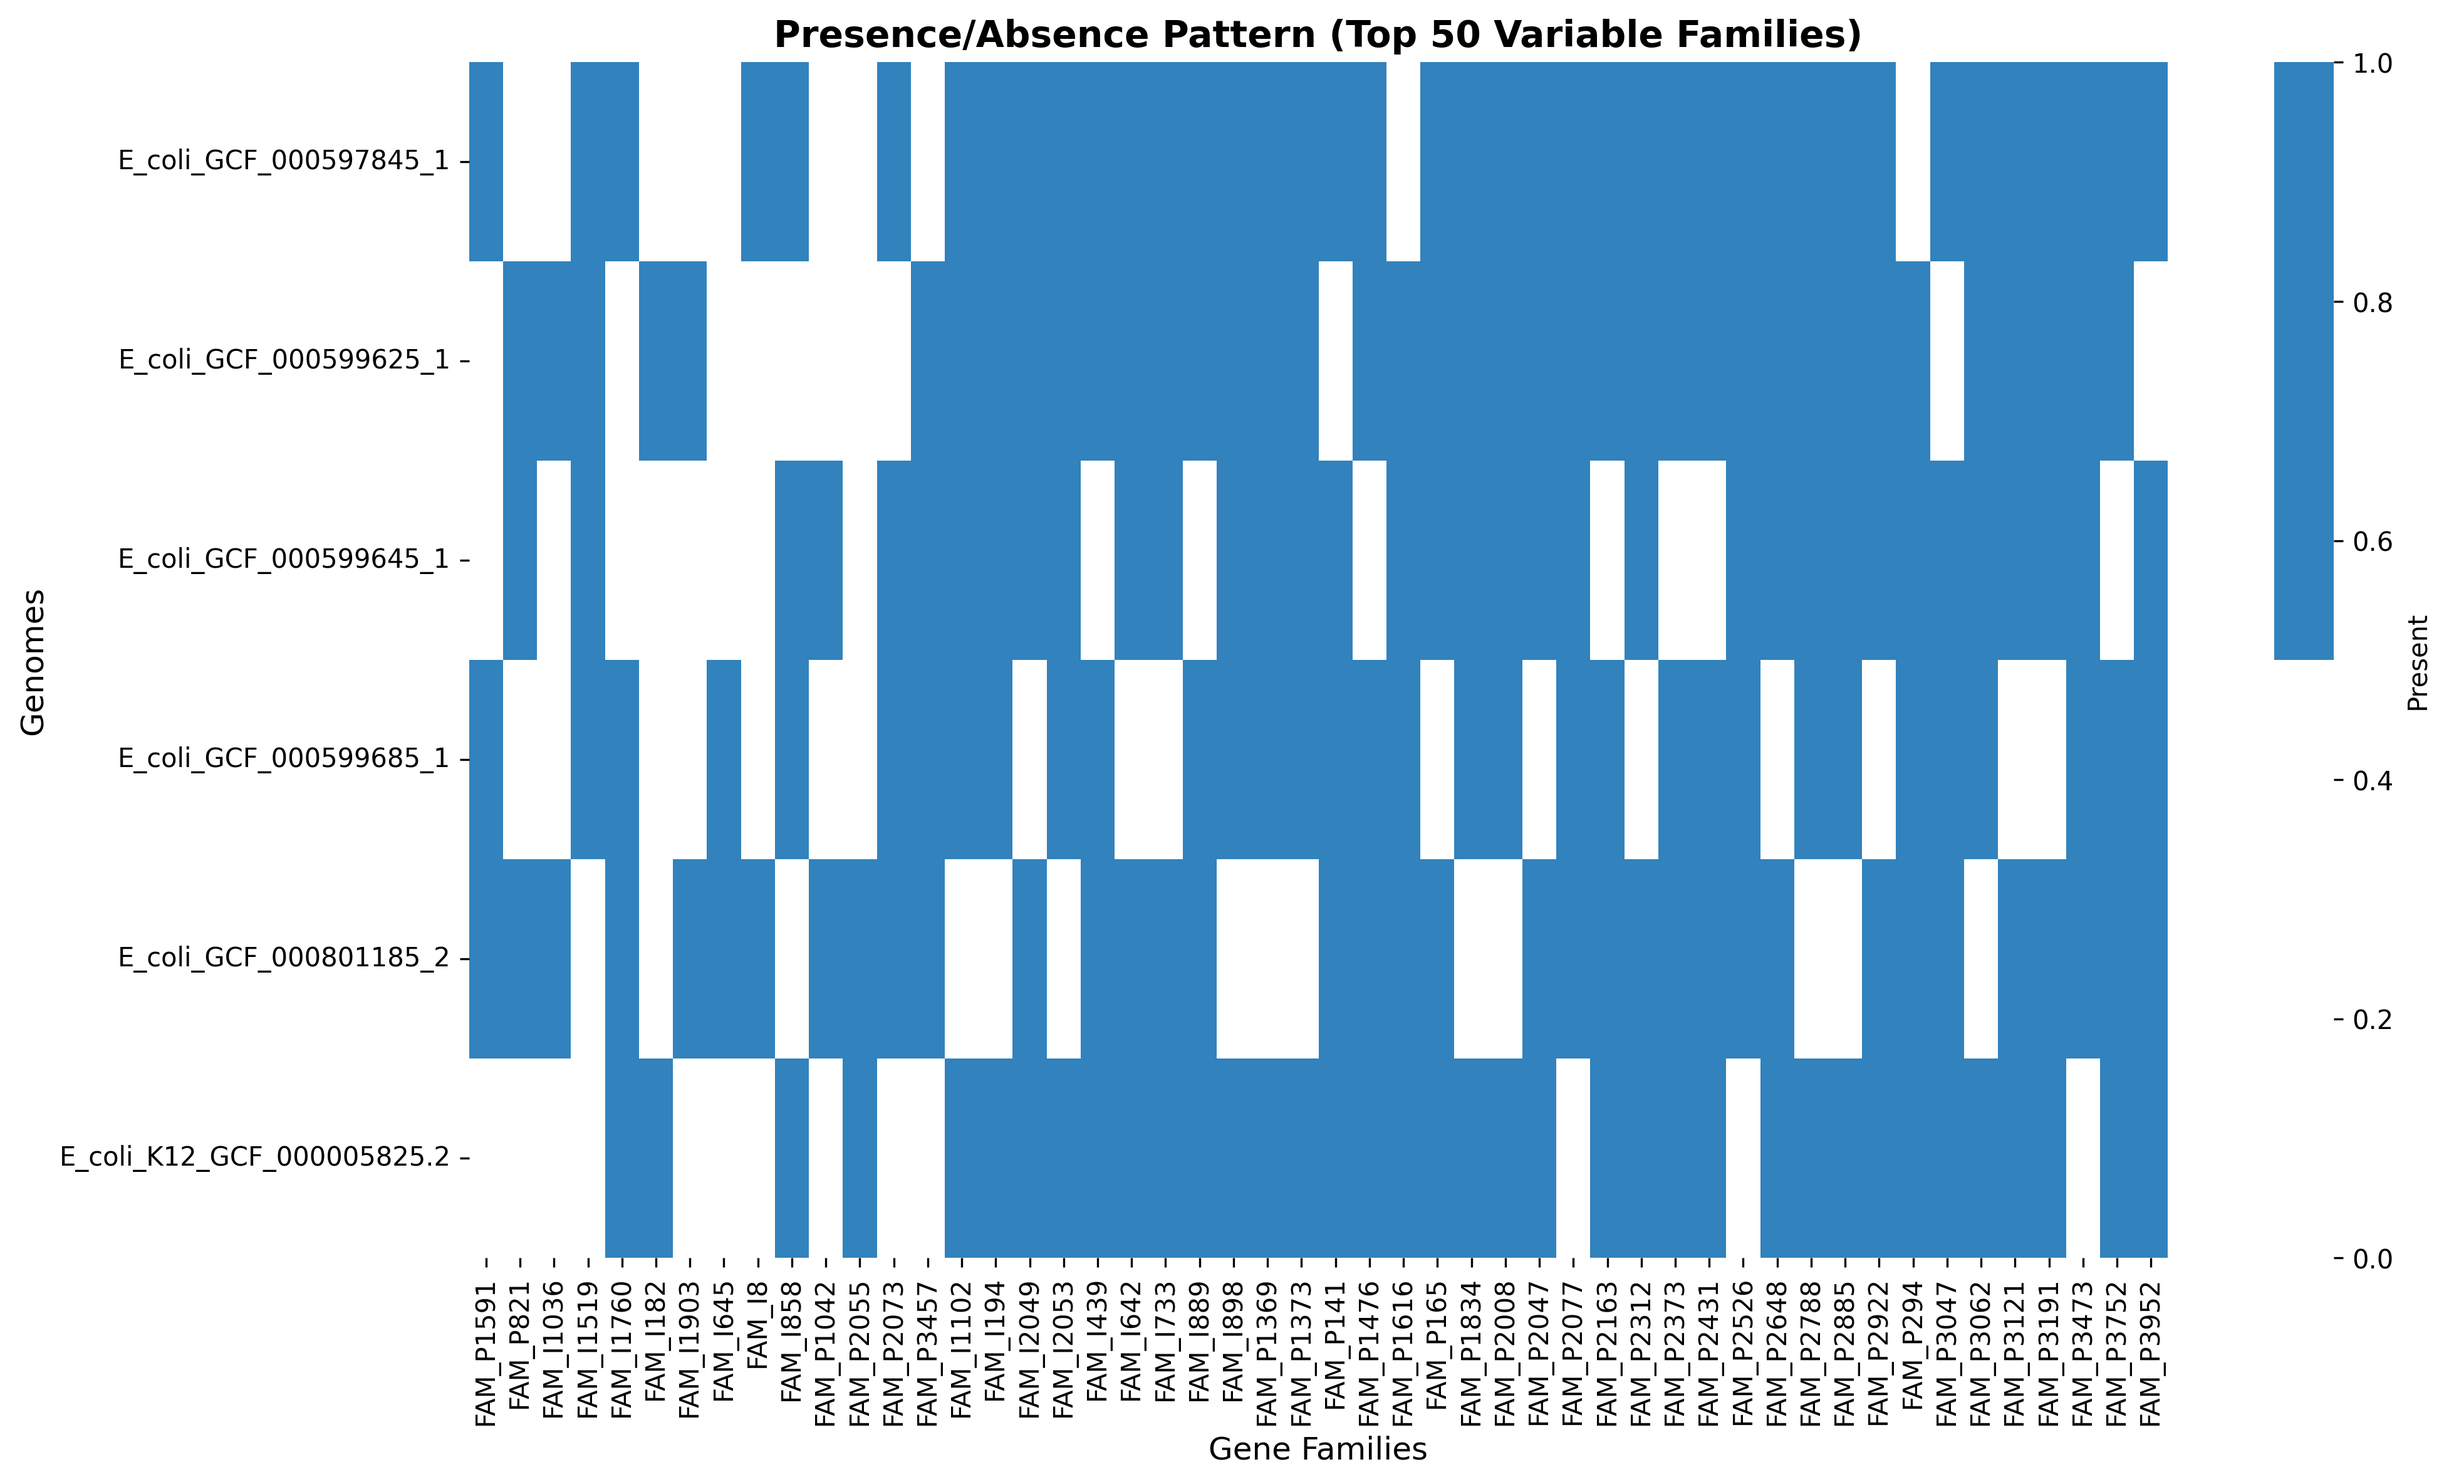
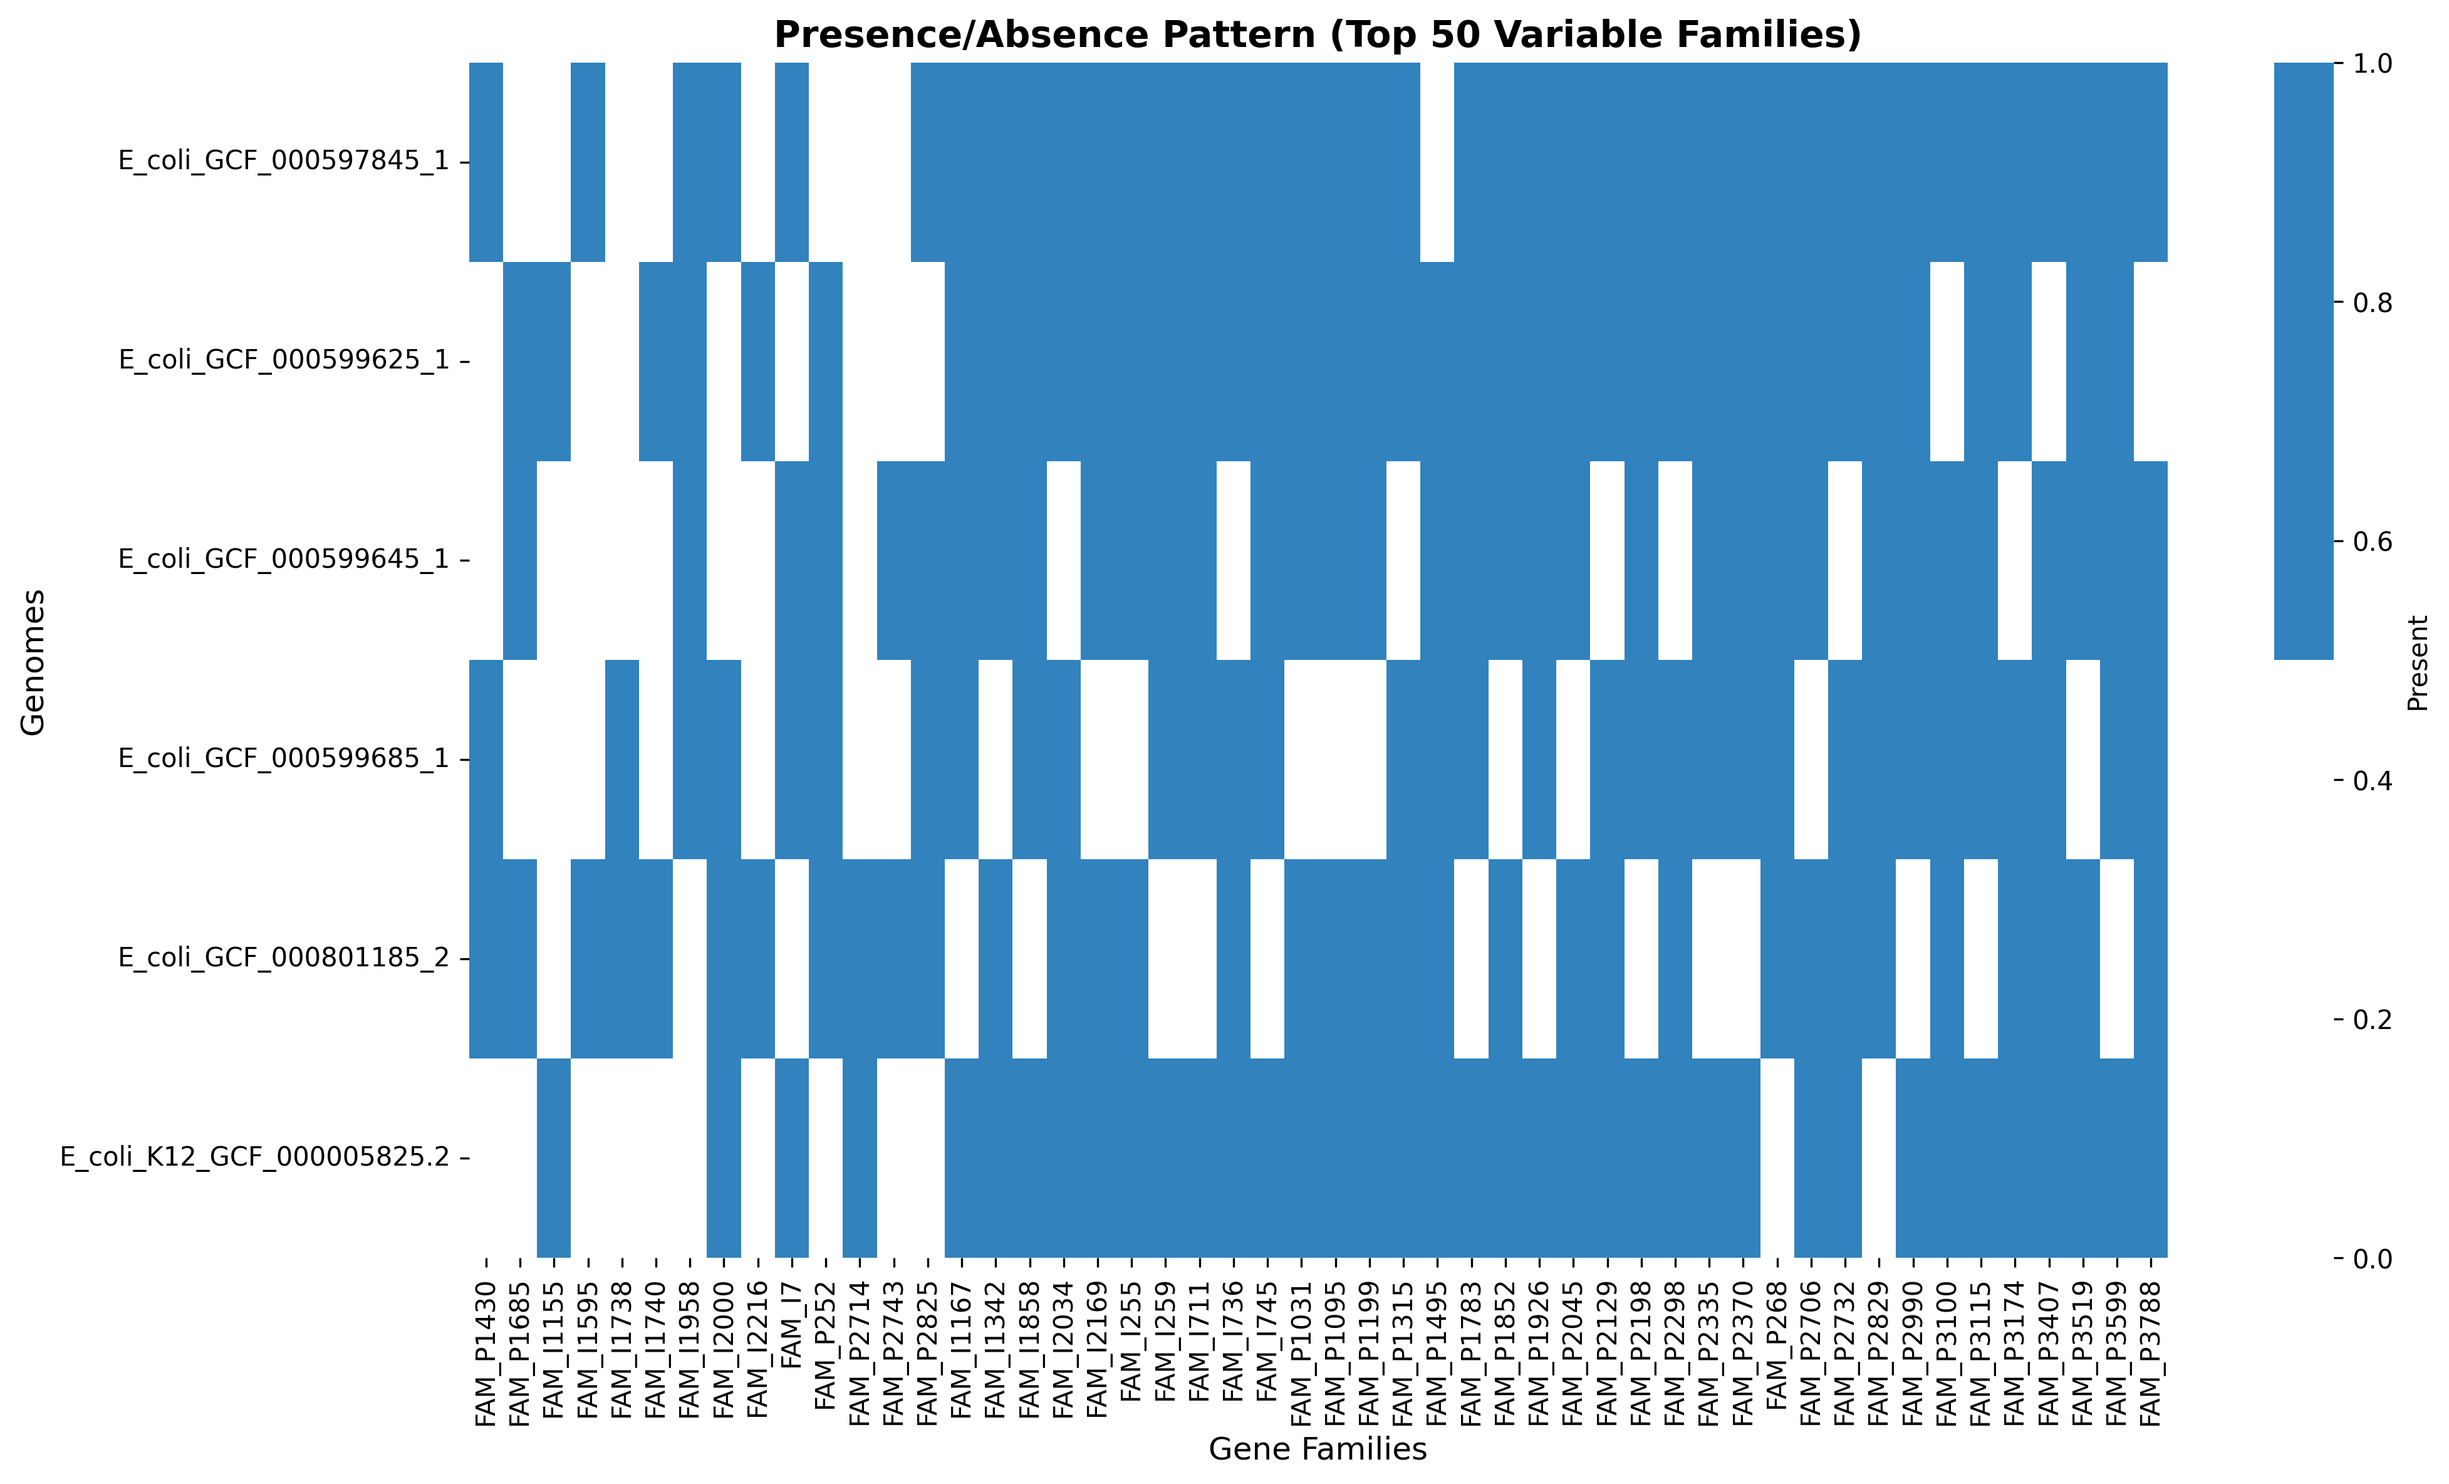
Update analysis results and all visualizations with correct family counts
Re-ran complete pipeline analysis on 6 E. coli genomes with fresh output.

Updated results:
- Total: 41,114 features → 6,822 families (was 6,821)
- tRNAs: 468 features → 55 families (was 54) - includes 1 accessory family
- Core families: 6,525 (95.6%)
- Accessory families: 297 (4.4%)

Regenerated all 4 visualizations using corrected generate_viz.py:
- rarefaction_curves.png - Shows pangenome growth across 6 genomes
- feature_type_distribution.png - Correctly counts families, not features
- family_classification.png - Shows 95.6% core, 4.4% accessory
- presence_absence_heatmap.png - Top 50 variable families

All visualizations now accurately reflect gene family counts from clustering
rather than individual feature counts.

Changed region(s): [[0.1873, 0.0312, 0.8739, 0.9688], [0.8115, 0.9375, 0.8739, 0.9688]]

diff --git a/README.md b/README.md
@@ -505,14 +505,14 @@ Analysis of 6 *E. coli* genomes produced:
 **Features extracted**:
 - 25,944 proteins → 4,211 families
 - 14,570 intergenic regions → 2,553 families
-- 468 tRNAs → 54 families
+- 468 tRNAs → 55 families
 - 132 rRNAs → 3 families
 
-**Total**: 41,114 features clustered into 6,821 families
+**Total**: 41,114 features clustered into 6,822 families
 
 **Classification**:
-- **Core families** (≥95%): 6,520 families (95.7%)
-- **Accessory families** (15-95%): 296 families (4.3%)
+- **Core families** (≥95%): 6,525 families (95.6%)
+- **Accessory families** (15-95%): 297 families (4.4%)
 - **Cloud families** (<15%): 0 families
 
 ![Rarefaction Curves](README_images/rarefaction_curves.png)
